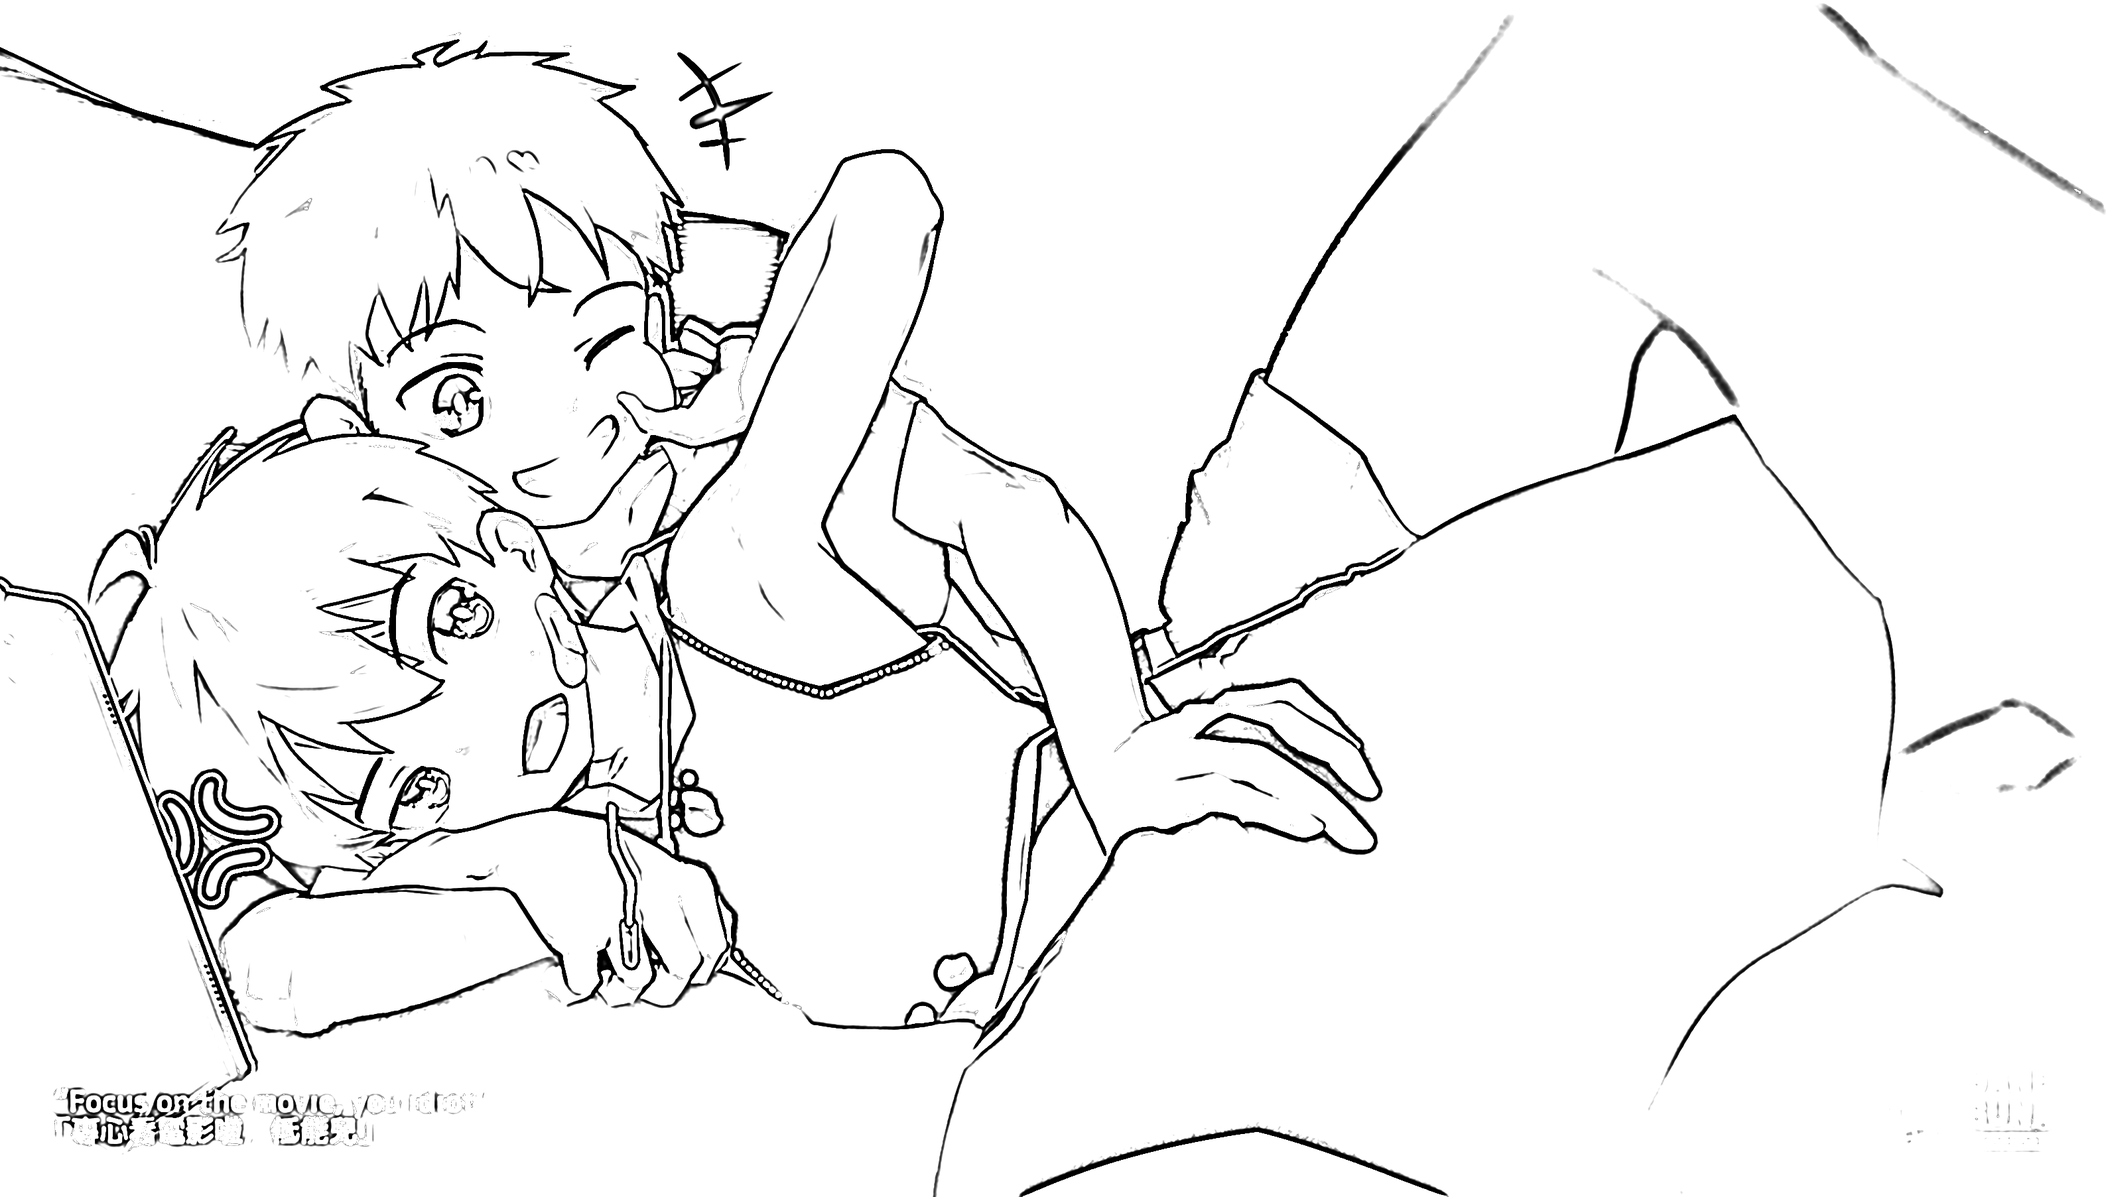
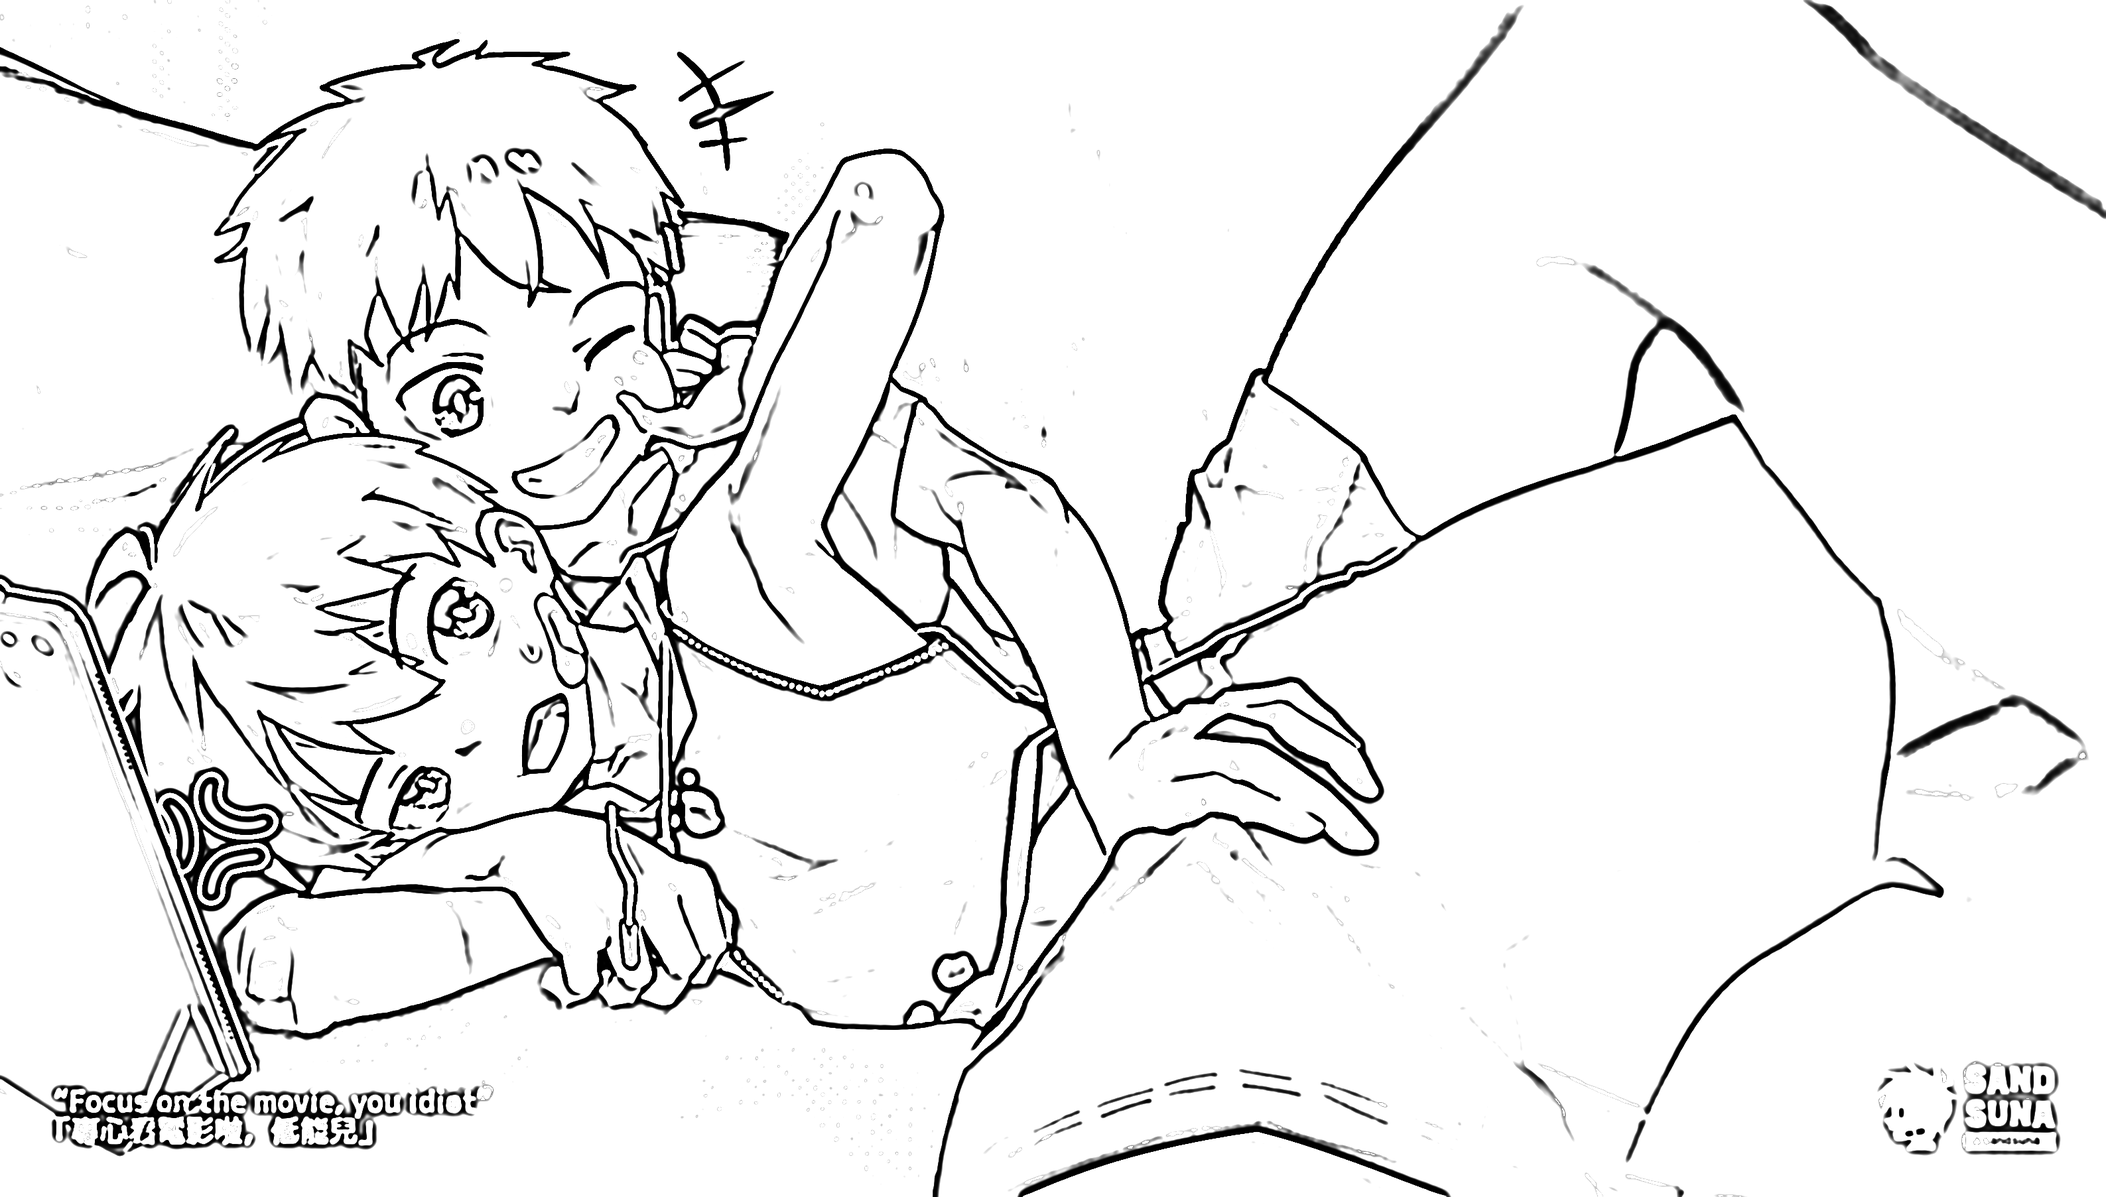
fix: 降噪窗口与阈值解耦，加迟滞筛选，重设 anime 预设
用户反馈"右侧大腿没描出来，这版不如最初那版"。核对属实，查出两个问题。

一、降噪窗口与被压结构尺度错配（细节丢失的真因）
旧式 radius = 1+7d，d=0.8 时半径 11px。颗粒是细尺度的，软边界/水印/字幕
是粗尺度的，用大窗口抹平等于两个一起抹。实测（3175x1805 插画）：
              平坦区颗粒   水印区墨量   大腿边界响应
  不降噪        0.00390     0.0528      -0.107
  半径11(旧)    0.00022     0.0000      -0.051
  半径3(新)     0.00026     0.0497      -0.074
小半径拿到同样的颗粒压制（-93%），粗结构保住大半。因此把两者拆成独立系数
按预设给：photo/ink = (7.0, 0.18)，anime = (2.5, 0.08)。照片必须留大窗口，
否则皮肤纹理全部回潮（实测颗粒 0.0001 -> 0.0058），已回归验证 photo 逐像素不变。

二、软边界画不出来，根源是尺度不是阈值
同一条大腿轮廓的归一化响应：sigma 1.98 时 u=-0.107（不成线），3.97 时 -0.225，
7.94 时 -0.552。扩散型边界在小尺度上响应不足（Lindeberg 尺度空间）。所以
anime 预设 sigma 1.2 -> 1.6，这是该类轮廓开始出现的位置。

试过并否掉三个自动补线判据（想只补轮廓不补明暗过渡）：
  - 粗尺度响应强度：床单褶皱反而更强（1.8 vs 大腿 0.53）
  - 跨边色差：褶皱中位 0.067 > 大腿 0.033
  - 脊线长度：褶皱同样又长又连续
三者全部失效，说明该类区分在像素层面没有可分特征，放弃自动补线，改由 -s 控制。

三、新增迟滞筛选（Kang et al. 2007 / Rosin & Lai 的成熟做法）
墨量 >=0.80 作种子，>=0.25 的连通块只在含种子时保留。同一张线稿实测：
  碎块(<30px) 1044 -> 233，长块(>=200px) 193 -> 186，笔画墨量 0.6377 -> 0.6371。
只杀孤立弱响应，不动与强线连通的像素，所以不会造出虚线。作用于 xdog/coherent，
sketch 是调子图不能这样筛。照片上仅删 3% 孤立碎点，发丝五官无损失。

anime 预设最终：sigma 1.6 / epsilon -0.055 / denoise 0.60 / phi 15 / min-area 30。
README 补「降噪的两个旋钮」「迟滞筛选」「软边界只能靠 sigma」三节，含否证数据。

diff --git a/src/main.rs b/src/main.rs
@@ -39,6 +39,14 @@ struct Config {
     flow_sigma: f32,
     min_area: usize,
     scale: f32,
+    /// 降噪半径系数：半径 = (1 + denoise_radius * denoise) * res
+    ///
+    /// 半径决定「多细的纹理会被抹掉」，eps 决定「多低的对比算纹理」。
+    /// 二者不该绑在一起：照片的皮肤/织物纹理幅度大，需要大窗口；插画的颗粒极细，
+    /// 但软边界是粗尺度的，窗口一大就连真实结构一起抹平。
+    denoise_radius: f32,
+    /// 降噪阈值系数：eps = (0.01 + denoise_var * denoise)^2
+    denoise_var: f32,
     invert: bool,
     binarize: bool,
 }
@@ -58,7 +66,7 @@ fn print_help() {
 
 预设 (-P):
     photo       照片 (默认)
-    anime       动漫/插画 (强降噪 + 去碎点，压平涂区的颗粒)
+    anime       动漫/插画 (去平涂颗粒、保住细线；-s 更大可画出更软的边界)
     ink         墨线 (更细更锐、适合干净素材)
 
 参数:
@@ -129,19 +137,21 @@ fn parse_args() -> Result<Config, String> {
         }
         j += 1;
     }
-    let (def_sigma, def_eps, def_denoise, def_phi, def_min_area) = match preset.as_str() {
-        "photo" => (1.4f32, -0.05f32, 0.45f32, 15.0f32, 0usize),
-        // 插画的杂点来自平涂区的抖动颗粒，靠强保边降噪在源头压掉，
-        // 再用 min-area 清掉残余碎点；两步都不动线条本身。
-        "anime" => (1.2f32, -0.055f32, 0.80f32, 15.0f32, 30usize),
-        "ink" => (1.0f32, -0.03f32, 0.15f32, 25.0f32, 0usize),
-        other => {
-            return Err(format!(
-                "未知预设: {}（可选 photo / anime / ink）",
-                other
-            ))
-        }
-    };
+    // 预设同时决定降噪的「窗口尺度」与「对比阈值」两个系数，见 Config 注释。
+    let (def_sigma, def_eps, def_denoise, def_phi, def_min_area, def_rad, def_var) =
+        match preset.as_str() {
+            "photo" => (1.4f32, -0.05f32, 0.45f32, 15.0f32, 0usize, 7.0f32, 0.18f32),
+            // 插画要压的是平涂区抖动颗粒（极细），但软边界、水印、字幕是粗尺度结构：
+            // 窗口必须小，强度交给阈值，否则会把粗结构一起抹平。
+            "anime" => (1.6f32, -0.055f32, 0.60f32, 15.0f32, 30usize, 2.5f32, 0.08f32),
+            "ink" => (1.0f32, -0.03f32, 0.15f32, 25.0f32, 0usize, 7.0f32, 0.18f32),
+            other => {
+                return Err(format!(
+                    "未知预设: {}（可选 photo / anime / ink）",
+                    other
+                ))
+            }
+        };
 
     let mut positional: Vec<String> = Vec::new();
     let mut method: Option<Method> = None;
@@ -278,6 +288,8 @@ fn parse_args() -> Result<Config, String> {
         flow_sigma,
         min_area,
         scale,
+        denoise_radius: def_rad,
+        denoise_var: def_var,
         invert,
         binarize,
     })
@@ -321,8 +333,10 @@ fn main() {
 
     // 预处理：保边降噪，压制纹理型杂线
     if cfg.denoise > 0.001 {
-        let radius = ((1.0 + 7.0 * cfg.denoise) * res).round().max(1.0) as usize;
-        let eps = (0.01 + 0.18 * cfg.denoise).powi(2);
+        let radius = ((1.0 + cfg.denoise_radius * cfg.denoise) * res)
+            .round()
+            .max(1.0) as usize;
+        let eps = (0.01 + cfg.denoise_var * cfg.denoise).powi(2);
         src = blur::guided_filter(&src, w, h, radius, eps);
     }
 
@@ -344,6 +358,12 @@ fn main() {
         }
         Method::Sketch => methods::sketch(&src, w, h, sigma, cfg.k, cfg.epsilon, cfg.phi),
     };
+
+    // 迟滞：弱响应只有与强线连通才保留，去掉孤立颗粒而不打断线条。
+    // 只用于线稿类方法；sketch 是调子图，整片弱灰都是内容，不能这样筛。
+    if matches!(cfg.method, Method::Xdog | Method::Coherent) {
+        post::hysteresis(&mut out, w, h, 0.80, 0.25);
+    }
 
     if cfg.min_area > 0 {
         let area = ((cfg.min_area as f32) * res * res).round().max(1.0) as usize;

diff --git a/src/post.rs b/src/post.rs
@@ -1,4 +1,68 @@
 //! 后处理：清理碎小线条连通块。
+//!
+//! 两个手段都在线稿的连通块层面工作，不改变任何保留下来的像素强度，
+//! 因此不会把线条变淡或变细：
+//!
+//! - `hysteresis`：孤立弱响应删除，与强线连通的弱响应保留（Canny / Coherent
+//!   Line Drawing 的成熟做法）。用于「弱而碎」的颗粒。
+//! - `remove_small_components`：按面积删除，用于「小而成块」的碎点。
+
+/// 迟滞筛选（输入输出均为白度，1 = 白）
+///
+/// 墨量 `>= strong` 的像素作为种子；墨量 `>= weak` 的连通块，只有包含种子才保留。
+/// 弱而孤立的响应是噪声，弱而连成线的是真实结构 —— 这样既去了颗粒又不打断线条。
+pub fn hysteresis(img: &mut [f32], w: usize, h: usize, strong: f32, weak: f32) {
+    if w == 0 || h == 0 || weak <= 0.0 {
+        return;
+    }
+    let n = w * h;
+    let mut visited = vec![false; n];
+    let mut stack: Vec<usize> = Vec::new();
+    let mut comp: Vec<usize> = Vec::new();
+
+    for start in 0..n {
+        if visited[start] || 1.0 - img[start] < weak {
+            continue;
+        }
+        stack.clear();
+        comp.clear();
+        stack.push(start);
+        visited[start] = true;
+        let mut has_seed = false;
+
+        while let Some(i) = stack.pop() {
+            comp.push(i);
+            if 1.0 - img[i] >= strong {
+                has_seed = true;
+            }
+            let x = (i % w) as isize;
+            let y = (i / w) as isize;
+            for dy in -1..=1i32 {
+                for dx in -1..=1i32 {
+                    if dx == 0 && dy == 0 {
+                        continue;
+                    }
+                    let nx = x + dx as isize;
+                    let ny = y + dy as isize;
+                    if nx < 0 || ny < 0 || nx >= w as isize || ny >= h as isize {
+                        continue;
+                    }
+                    let j = ny as usize * w + nx as usize;
+                    if !visited[j] && 1.0 - img[j] >= weak {
+                        visited[j] = true;
+                        stack.push(j);
+                    }
+                }
+            }
+        }
+
+        if !has_seed {
+            for &i in &comp {
+                img[i] = 1.0;
+            }
+        }
+    }
+}
 
 /// 删除面积小于 min_area 的黑色连通块（8 邻域）
 pub fn remove_small_components(img: &mut [f32], w: usize, h: usize, min_area: usize) {

diff --git a/README.md b/README.md
@@ -9,7 +9,7 @@
 - **4 种线稿算法**：XDoG（默认，快且连贯）、相干线稿 ETF+FDoG（最连贯）、Canny 细线、铅笔素描
 - **保边降噪预处理**：自导向滤波，压掉皮肤、皮革、岩石的纹理杂线，同时不糊真实轮廓
 - **分辨率自适应**：`sigma`、降噪半径按长边相对 1920 自动缩放，1080p / 2K / 4K 得到一致的视觉线宽
-- **题材预设**：`photo` / `anime` / `ink`，插画预设针对平涂区颗粒做了专门标定
+- **题材预设**：`photo` / `anime` / `ink`，插画预设按「颗粒尺度」与「边界尺度」分别标定降噪窗口与阈值
 - **多线程**：按行并行（rayon），1920×1091 约 90 ms
 - **格式**：输入支持 jpg / png / bmp / webp / tiff 等（由 `image` crate 决定），输出格式按扩展名推断
 
@@ -69,8 +69,10 @@ lineart photo.jpg out.png --min-area 20 --binarize
 | 预设 | sigma | epsilon | denoise | phi | min-area | 适用 |
 | --- | --- | --- | --- | --- | --- | --- |
 | `photo` | 1.4 | -0.05 | 0.45 | 15 | 0 | 照片（默认） |
-| `anime` | 1.2 | -0.055 | 0.80 | 15 | 30 | 动漫 / 插画，平涂区颗粒强压 |
+| `anime` | 1.6 | -0.055 | 0.60 | 15 | 30 | 动漫 / 插画，软边界也要画出来 |
 | `ink` | 1.0 | -0.03 | 0.15 | 25 | 0 | 干净素材，更细更锐 |
+
+`anime` 想要更细的线用 `-s 1.2`，想要更干净用 `-d 0.8`。
 
 ## 算法说明
 
@@ -85,27 +87,85 @@ lineart photo.jpg out.png --min-area 20 --binarize
 
 - DoG 响应用 **99 分位有符号归一化** `u = DoG / p99(|DoG|)`，平坦区 DoG=0 恒为白，`epsilon ≤ 0` 时不会整片变黑
 - `epsilon` 越负，只有越强的边缘才能成线；`phi` 控制 tanh 过渡的陡峭程度
-- 降噪用自导向滤波（box 均值近似，O(1)/像素），半径与阈值随 `--denoise` 与分辨率缩放
+- 降噪用自导向滤波（box 均值近似，O(1)/像素），**窗口半径与对比阈值是两个独立的系数**，见下节
+- 线稿类方法（`xdog` / `coherent`）出图后做一次**迟滞筛选**：弱响应的连通块只有含强响应种子才保留
 
-### 插画预设是怎么定的
+### 降噪的两个旋钮不是一回事
 
-插画的杂点和照片不同：它几乎全在**平涂区**，是 JPEG 颗粒、网点抖动、笔刷纹理，幅度低、分布散。评价这类输出不能只看「脏不脏」，得同时看「线在不在」。所以把原图分成两类区域来打分：
+自导向滤波的两个参数各管一件事：
+
+- **窗口半径**决定「多细的纹理会被抹掉」——小于窗口的结构才有机会被压平
+- **阈值 `eps`** 决定「多低的对比算纹理」
+
+把两者绑在一起（旧的 `半径 = 1+7d`）在强度拉满时半径达到 11px，于是**颗粒被抹掉的同时，软边界、水印、字幕这些粗尺度结构也一起被抹平**——这是「细节丢失」的真正来源。
+
+| 配置 | 平坦区颗粒 | 水印区墨量 | 大腿软边界响应 |
+| --- | --- | --- | --- |
+| 不降噪 | 0.00390 | 0.0528 | −0.107 |
+| 半径 11px（旧） | 0.00022 | 0.0000 | −0.051 |
+| 半径 3px（新） | 0.00026 | 0.0497 | −0.074 |
+
+小半径拿到了同样的颗粒压制（−93%），但粗结构保住了大半。所以插画用**小半径 + 较高的 eps**，照片则必须用大半径——皮肤和织物的纹理幅度本来就大，窗口一小就全变成杂线（实测 photo 颗粒 0.0001 → 0.0058）。两个系数因此按预设分开给：
+
+| 预设 | 半径系数 | eps 系数 |
+| --- | --- | --- |
+| `photo` / `ink` | 7.0 | 0.18 |
+| `anime` | 2.5 | 0.08 |
+
+### 迟滞筛选：去碎点而不打断线
+
+颗粒和细碎杂线是「孤立的弱响应」，真实线条即使很淡也会连成长链。所以按**连通性**而不是强度决定去留：墨量 ≥ 0.80 的像素当种子，墨量 ≥ 0.25 的连通块只有含种子才保留。
+
+同一张线稿上实测（3175×1805）：
+
+| | 平坦区碎块（<30px） | 长块（≥200px） | 笔画区墨量 |
+| --- | --- | --- | --- |
+| 不做迟滞 | 1044 | 193 | 0.6377 |
+| 迟滞 0.80 / 0.25 | **233** | 186 | 0.6371 |
+
+碎块砍掉 78%，长线只掉 4%，笔画墨量几乎不变。
+
+### 软边界：为什么只能靠 sigma
+
+插画里有一类边界画不出来——皮肤、大腿、布料之间那些**被柔化的轮廓**。它们没有笔画，只有一段缓慢的明暗过渡。
+
+根源是尺度。在同一张 3175×1805 的插画上测同一条大腿轮廓：
+
+| sigma | 该处归一化响应 u | 成线？ |
+| --- | --- | --- |
+| 1.98 | −0.107 | 否 |
+| 3.97 | −0.225 | 勉强 |
+| 7.94 | −0.552 | 是 |
+| 15.87 | −0.758 | 是 |
+
+扩散型边界在小尺度上几乎没有响应，因为 DoG 的窗口还没跨过这条过渡带。这正是 Lindeberg 尺度空间理论说的：结构越弥散，可辨识的尺度越大。所以 `-s` 就是这类边界的开关——`anime` 预设取 `1.6`（约为原先的 1.33 倍）是让这类轮廓开始出现的位置，代价是线宽整体略增。
+
+**试过但否掉的自动化方案**（都是想「只补软边界、不补明暗过渡」）：
+
+| 判据 | 结论 |
+| --- | --- |
+| 粗尺度响应强度 | 床单褶皱反而更强（1.8 vs 大腿 0.53），强度分不开 |
+| 跨边色差 | 褶皱两侧色差中位 0.067 > 大腿 0.033，色差也分不开 |
+| 脊线长度 | 褶皱同样又长又连续，长度分不开 |
+
+三个判据全部失效，说明「该画的轮廓」与「不该画的明暗过渡」在像素层面没有可分特征，靠局部统计量自动区分是做不到的。既然如此就不做自动补线，把选择权交回 `-s`。
+
+### 插画预设的取值是怎么来的
+
+插画的杂点几乎全在**平涂区**，是 JPEG 颗粒、网点抖动、笔刷纹理，幅度低、分布散。评价这类输出不能只看「脏不脏」，得同时看「线在不在」，所以把原图分成两类区域打分：
 
 - **笔画区**：原图局部梯度强且像素本身偏暗——这里本该有线，墨量越高越好
 - **平坦区**：梯度平缓、离笔画较远——这里本该留白，墨量越低越好
 
-在 3175×1805 的插画上扫描 `denoise × epsilon × min-area`：
+在这张 3175×1805 的插画上：
 
-| 配置 | 平坦区墨量 | 笔画区墨量 | 比值 |
+| 配置 | 平坦区墨量 | 笔画区墨量 | 碎块 |
 | --- | --- | --- | --- |
-| 旧默认（`-d 0.30 -e -0.045`） | 0.0219 | 0.6383 | 29 |
-| `-d 0.60 -e -0.055 --min-area 30` | 0.0127 | 0.6369 | 50 |
-| **`-d 0.80 -e -0.055 --min-area 30`** | **0.0120** | **0.6371** | **53** |
-| `-d 0.80 -e -0.065 --min-area 30` | 0.0102 | 0.6348 | 62 |
+| 旧默认 `s1.2 d.3` | 0.0219 | 0.6383 | 471 |
+| 上一版 `s1.2 d.8` 大半径 | 0.0120 | 0.6371 | 1046 |
+| **现版 `s1.6 d.6` 小半径 + 迟滞** | 0.0321 | 0.6374 | 618 |
 
-结论是**在源头压噪**远比事后删线划算：强保边降噪让 DoG 在平涂区根本不起响应，`min-area` 再清掉残渣，两步都不碰线条本身。取 `-e -0.055` 是因为再往负走，笔画区墨量开始掉——那是真实细节在流失。
-
-最终 `anime` 预设：`sigma 1.2 / epsilon -0.055 / denoise 0.80 / phi 15 / min-area 30`。相对旧默认，平坦区杂点 −45%，笔画区墨量 −0.2%（视觉上无差别），线稿平均连续段长从 1043px 涨到 2388px。
+现版平坦区墨量更高，是因为把软边界、褶皱这些**淡而长的真实结构**也画了进来（碎块数则是被迟滞压下来的）。它换的是「更完整」而不是「更干净」：想要后者就 `-d 0.8`。
 
 ### 为什么没有做「用原图引导降噪」
 
@@ -141,7 +201,8 @@ lineart photo.jpg out.png --min-area 20 --binarize
 - 半透明水印、字幕、渐变叠加边缘都是图像中真实存在的边缘，算法会如实描出，需要 `--min-area` 或后期手动清理
 - 岩石、树叶等高频纹理本身细节极多，线稿看起来会偏"密"，可加大 `-s` 与 `-d`
 - `sketch` 模式采用颜色减淡算法，在纯色块插画上偏淡，照片效果更好
-- `anime` 预设的强降噪会一并压掉极淡的浅灰细纹（如半透明网点、很轻的铅笔草稿线），需要时用 `-d 0.5` 回调
+- 被柔化的软边界（皮肤、布料之间没有笔画的过渡）需要 `-s 1.6` 以上才画得出；线要想更细就得接受这类边界画不出来——二者是同一个 `sigma` 旋钮
+- 极淡的浅灰细纹（半透明网点、很轻的草稿线）会被 `-d` 连同颗粒一起压掉，需要时用 `-d 0.4` 回调
 
 ## 项目结构
 
@@ -151,7 +212,7 @@ lineart/
 │   ├── main.rs      CLI 解析、分辨率归一化、流程编排
 │   ├── blur.rs      高斯 / box / 导向滤波、Sobel、双线性采样
 │   ├── methods.rs   XDoG、相干线稿、Canny、铅笔素描
-│   └── post.rs      碎线连通块清理
+│   └── post.rs      迟滞筛选 + 碎线连通块清理
 ├── docs/images/     演示与对比图
 ├── samples/         本地测试素材（已 gitignore）
 └── Cargo.toml
